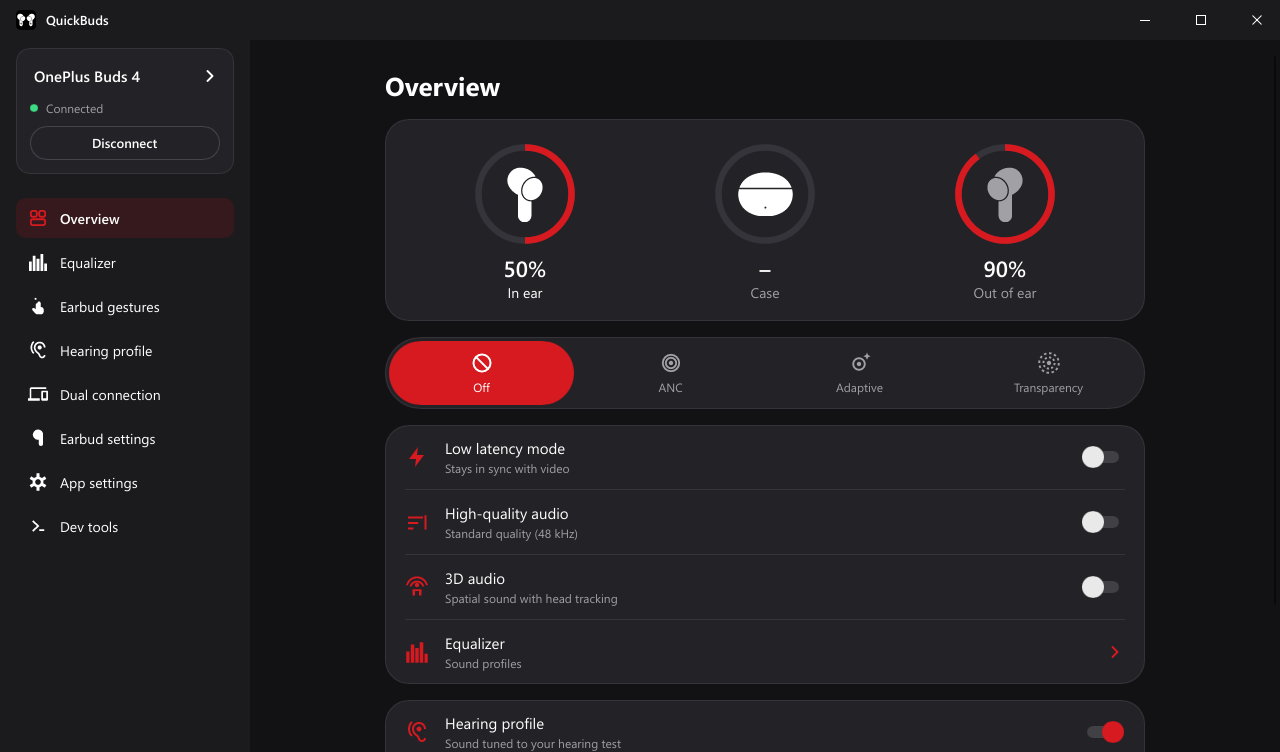
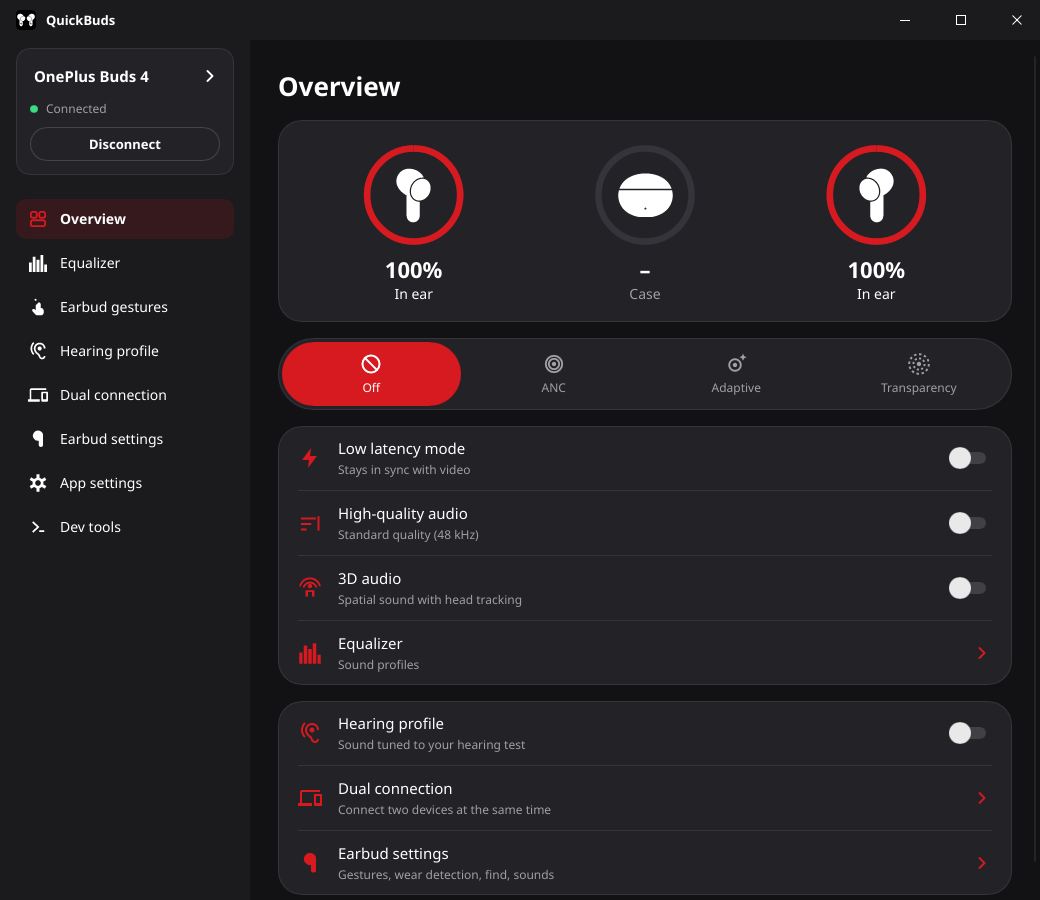
README: the PC screenshot at the new window size; drop the Play Protect and v1.1.0 notes

diff --git a/README.md b/README.md
@@ -73,11 +73,6 @@ does not pair them. Every file is in the [latest release](https://github.com/spi
   git clone https://github.com/spizganed/QuickBuds && cd QuickBuds/desktop/aur && makepkg -si
   ```
 
-> **"App blocked" or "Unknown developer" from Play Protect?** Tap **Install anyway**. QuickBuds is a new,
-> small app that Google has not seen much yet, so the warning is normal for it. It goes away in time.
-
-> **Coming from v1.1.0?** Uninstall it first: v2.0.0 and later are signed with a new key.
-
 > **Got the APK somewhere else?** The only official downloads are the GitHub releases. A copy from
 > another site is genuine only if it is signed with this certificate (SHA-256), which
 > `apksigner verify --print-certs <apk>` shows:
